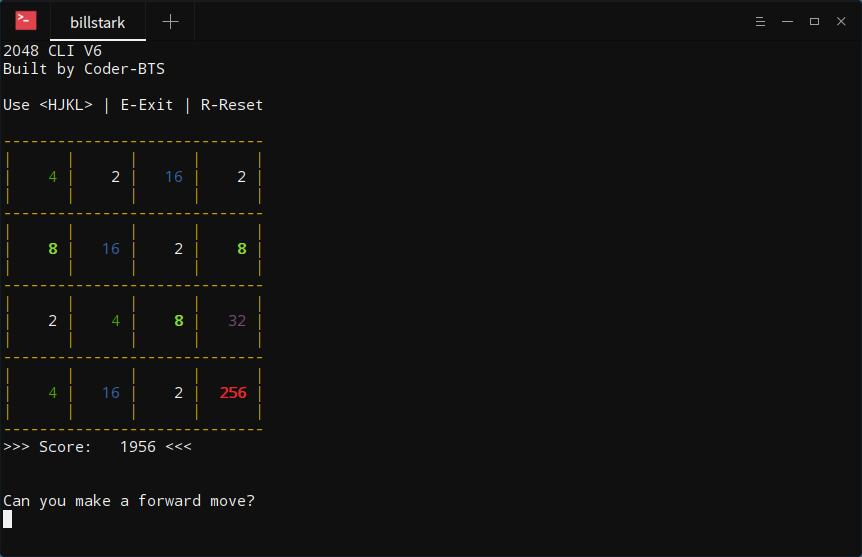
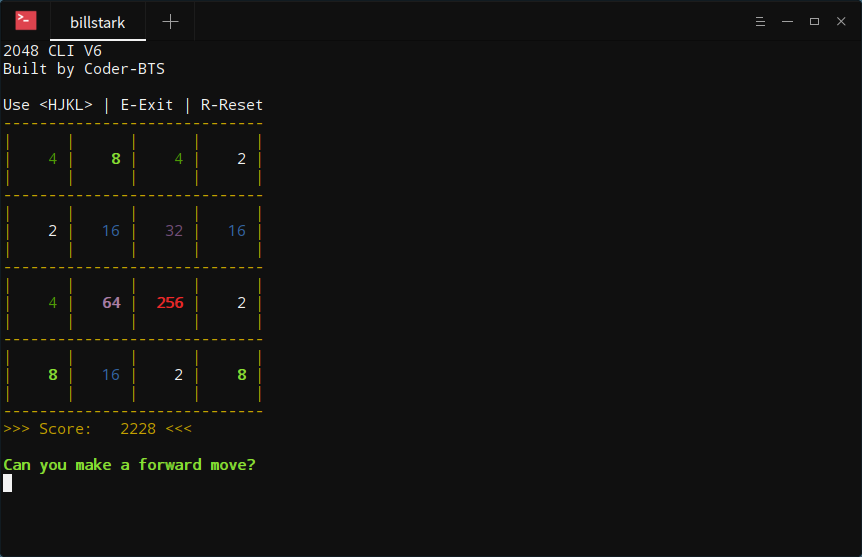
Auto updated by Bill.T.Stark's Programm 2.0

diff --git a/src/2048.c b/src/2048.c
@@ -73,7 +73,7 @@ void draw_canvas()
     printf("\033[m");
     printf("2048 CLI V6\n");
     printf("Built by Coder-BTS\n\n");
-    printf("Use <HJKL> | E-Exit | R-Reset\n\n");
+    printf("Use <HJKL> | E-Exit | R-Reset\n");
     printf("\033[0;33m");
     printf("-----------------------------\n");
     printf("|      |      |      |      |\n");
@@ -159,11 +159,11 @@ void draw_canvas()
         express++;
     }while(express < 16);
     printf("\n|      |      |      |      |\n");
-    printf("-----------------------------\n\033[m");
-    printf(">>> Score:   %d <<<\n",score);
+    printf("-----------------------------\n");
+    printf(">>> Score:   %d <<<\033[m\n",score);
     if(check() == 1)
     {
-        printf("\n\nCan you make a forward move?\n");
+        printf("\n\033[1;32mCan you make a forward move?\n");
     }
     printf("\033[m");
 }

diff --git a/version_view/v6/2048.c b/version_view/v6/2048.c
@@ -73,7 +73,7 @@ void draw_canvas()
     printf("\033[m");
     printf("2048 CLI V6\n");
     printf("Built by Coder-BTS\n\n");
-    printf("Use <HJKL> | E-Exit | R-Reset\n\n");
+    printf("Use <HJKL> | E-Exit | R-Reset\n");
     printf("\033[0;33m");
     printf("-----------------------------\n");
     printf("|      |      |      |      |\n");
@@ -159,11 +159,11 @@ void draw_canvas()
         express++;
     }while(express < 16);
     printf("\n|      |      |      |      |\n");
-    printf("-----------------------------\n\033[m");
-    printf(">>> Score:   %d <<<\n",score);
+    printf("-----------------------------\n");
+    printf(">>> Score:   %d <<<\033[m\n",score);
     if(check() == 1)
     {
-        printf("\n\nCan you make a forward move?\n");
+        printf("\n\033[1;32mCan you make a forward move?\n");
     }
     printf("\033[m");
 }

diff --git a/README.md b/README.md
@@ -6,7 +6,9 @@ A terminal version of 2048
 * **[V6 is Released! Added Block Color!]**
 * **[V6 is Released! Added Block Color!]**
 
-Using **H J K L** to move blocks *(Linux support direction keys, Windows untested)*
+> Using **H J K L** to move blocks *(Linux support direction keys, Windows untested)*
+
+> Using **E** to exit | Using **R** to reset
 
 Support Windows and Linux *(Windows not completly tested)*
 
